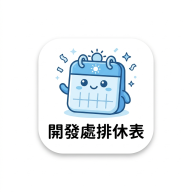
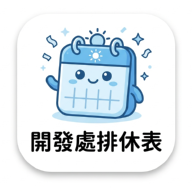
圖示改為滿格：自動偵測內容並放大裁切，去掉原圖過多白邊
- 原圖四周約 18~20% 全白、圖案只占約 63%，加到主畫面顯得有一圈留白
- 產圖腳本改為偵測內容範圍後裁切放大，內容填滿約 86% 方格，
  僅保留小安全邊距避免底部文字被 iOS 圓角切掉
- 重產 icon-180/192/512.png

https://claude.ai/code/session_01FgorpNVTQCG1yQN7ps6MJR

diff --git a/scripts/make-icons.js b/scripts/make-icons.js
@@ -1,6 +1,6 @@
-// 由主人提供的正式 Logo（assets/app-icon-master.png, 1024x1024）產生
-// 加到主畫面用的 icon-180/192/512.png。
-// 環境無 convert/canvas/npm，於是自寫 PNG 解碼 + 面積平均縮放 + 重新編碼。純 Node。
+// 由主人提供的正式 Logo（assets/app-icon-master.png）產生 icon-180/192/512.png。
+// 原圖四周留白過多 → 自動偵測內容範圍、放大裁切，讓圖案填滿方格（保留小安全邊距，
+// 避免底部文字被 iOS 圓角切掉）。環境無 convert/canvas/npm，純 Node 自寫解碼/縮放/編碼。
 const fs = require("fs");
 const zlib = require("zlib");
 const path = require("path");
@@ -10,45 +10,61 @@ function crc32(buf){let c=~0;for(let i=0;i<buf.length;i++){c^=buf[i];for(let k=0
 function chunk(type,data){const len=Buffer.alloc(4);len.writeUInt32BE(data.length,0);const body=Buffer.concat([Buffer.from(type,"ascii"),data]);const crc=Buffer.alloc(4);crc.writeUInt32BE(crc32(body),0);return Buffer.concat([len,body,crc]);}
 function encodePNG(W,H,rgba){const sig=Buffer.from([137,80,78,71,13,10,26,10]);const ihdr=Buffer.alloc(13);ihdr.writeUInt32BE(W,0);ihdr.writeUInt32BE(H,4);ihdr[8]=8;ihdr[9]=6;const stride=W*4;const raw=Buffer.alloc((stride+1)*H);for(let y=0;y<H;y++){raw[y*(stride+1)]=0;rgba.copy(raw,y*(stride+1)+1,y*stride,y*stride+stride);}return Buffer.concat([sig,chunk("IHDR",ihdr),chunk("IDAT",zlib.deflateSync(raw,{level:9})),chunk("IEND",Buffer.alloc(0))]);}
 
-/* ── PNG 解碼（支援 colortype 2=RGB / 6=RGBA, 8-bit, 非交錯） ── */
+/* ── PNG 解碼（colortype 2=RGB / 6=RGBA, 8-bit, 非交錯） ── */
 function decodePNG(buf){
   if(buf.readUInt32BE(0)!==0x89504e47) throw new Error("not png");
-  const W=buf.readUInt32BE(16), H=buf.readUInt32BE(20), bd=buf[24], ct=buf[25], il=buf[28];
-  if(bd!==8||il!==0||(ct!==2&&ct!==6)) throw new Error("unsupported png ct="+ct+" bd="+bd+" il="+il);
-  const ch=ct===6?4:3;
-  // 收集所有 IDAT
-  let p=33, idat=[];
-  while(p<buf.length){ const len=buf.readUInt32BE(p), type=buf.toString("ascii",p+4,p+8); if(type==="IDAT")idat.push(buf.slice(p+8,p+8+len)); if(type==="IEND")break; p+=12+len; }
-  const raw=zlib.inflateSync(Buffer.concat(idat));
-  const stride=W*ch, out=Buffer.alloc(stride*H); let rp=0;
-  const paeth=(a,b,c)=>{const pp=a+b-c,pa=Math.abs(pp-a),pb=Math.abs(pp-b),pc=Math.abs(pp-c);return pa<=pb&&pa<=pc?a:pb<=pc?b:c;};
-  for(let y=0;y<H;y++){ const f=raw[rp++]; const ro=y*stride, po=(y-1)*stride;
-    for(let x=0;x<stride;x++){ const v=raw[rp++]; const a=x>=ch?out[ro+x-ch]:0, b=y>0?out[po+x]:0, c=(x>=ch&&y>0)?out[po+x-ch]:0;
-      let r; switch(f){case 0:r=v;break;case 1:r=v+a;break;case 2:r=v+b;break;case 3:r=v+((a+b)>>1);break;case 4:r=v+paeth(a,b,c);break;default:throw new Error("bad filter "+f);} out[ro+x]=r&0xff; } }
+  const W=buf.readUInt32BE(16),H=buf.readUInt32BE(20),bd=buf[24],ct=buf[25],il=buf[28];
+  if(bd!==8||il!==0||(ct!==2&&ct!==6)) throw new Error("unsupported png");
+  const ch=ct===6?4:3; let p=33,idat=[];
+  while(p<buf.length){const len=buf.readUInt32BE(p),t=buf.toString("ascii",p+4,p+8);if(t==="IDAT")idat.push(buf.slice(p+8,p+8+len));if(t==="IEND")break;p+=12+len;}
+  const raw=zlib.inflateSync(Buffer.concat(idat));const stride=W*ch,out=Buffer.alloc(stride*H);let rp=0;
+  const paeth=(a,b,c)=>{const q=a+b-c,pa=Math.abs(q-a),pb=Math.abs(q-b),pc=Math.abs(q-c);return pa<=pb&&pa<=pc?a:pb<=pc?b:c;};
+  for(let y=0;y<H;y++){const f=raw[rp++];const ro=y*stride,po=(y-1)*stride;
+    for(let x=0;x<stride;x++){const v=raw[rp++];const a=x>=ch?out[ro+x-ch]:0,b=y>0?out[po+x]:0,c=(x>=ch&&y>0)?out[po+x-ch]:0;
+      let r;switch(f){case 0:r=v;break;case 1:r=v+a;break;case 2:r=v+b;break;case 3:r=v+((a+b)>>1);break;case 4:r=v+paeth(a,b,c);break;}out[ro+x]=r&255;}}
   return {W,H,ch,data:out};
 }
 
-/* ── 面積平均縮放 → RGBA（不透明背景補白） ── */
-function resizeArea(src,T){
+/* ── 偵測內容範圍（與四角背景色差異夠大者） ── */
+function contentBox(src,thr=24){
+  const {W,H,ch,data}=src; const bg=[data[0],data[1],data[2]];
+  let minX=W,minY=H,maxX=0,maxY=0;
+  for(let y=0;y<H;y++)for(let x=0;x<W;x++){const i=(y*W+x)*ch;
+    if(Math.abs(data[i]-bg[0])+Math.abs(data[i+1]-bg[1])+Math.abs(data[i+2]-bg[2])>thr){
+      if(x<minX)minX=x;if(x>maxX)maxX=x;if(y<minY)minY=y;if(y>maxY)maxY=y;}}
+  return {minX,minY,maxX,maxY,bg};
+}
+
+/* ── 從來源指定方形區域，面積平均縮放成 T×T RGBA（合成到白底） ── */
+function resizeRegion(src,sx0,sy0,side,T){
   const {W,H,ch,data}=src, out=Buffer.alloc(T*T*4);
-  for(let ty=0;ty<T;ty++){ const sy0=ty*H/T, sy1=(ty+1)*H/T;
-    for(let tx=0;tx<T;tx++){ const sx0=tx*W/T, sx1=(tx+1)*W/T;
-      let r=0,g=0,b=0,a=0,wsum=0;
-      for(let sy=Math.floor(sy0);sy<Math.ceil(sy1);sy++){ const wy=Math.min(sy1,sy+1)-Math.max(sy0,sy);
-        for(let sx=Math.floor(sx0);sx<Math.ceil(sx1);sx++){ const wx=Math.min(sx1,sx+1)-Math.max(sx0,sx); const w=wy*wx; if(w<=0)continue;
-          const i=(sy*W+sx)*ch; const al=ch===4?data[i+3]:255;
-          r+=data[i]*w; g+=data[i+1]*w; b+=data[i+2]*w; a+=al*w; wsum+=w; } }
-      const o=(ty*T+tx)*4, af=a/wsum/255;
-      // 合成到白底（去掉透明，App 圖示用不透明）
-      out[o]=Math.round(r/wsum*af+255*(1-af));
-      out[o+1]=Math.round(g/wsum*af+255*(1-af));
-      out[o+2]=Math.round(b/wsum*af+255*(1-af));
-      out[o+3]=255;
-    } }
+  const sample=(fx,fy)=>{ // 最近像素（已超取樣，足夠）；超出邊界視為白
+    const x=Math.round(fx),y=Math.round(fy); if(x<0||y<0||x>=W||y>=H)return [255,255,255,255];
+    const i=(y*W+x)*ch; return [data[i],data[i+1],data[i+2],ch===4?data[i+3]:255]; };
+  for(let ty=0;ty<T;ty++)for(let tx=0;tx<T;tx++){
+    // 每個目標像素對應來源一小塊，平均之
+    const u0=sx0+tx*side/T, u1=sx0+(tx+1)*side/T, v0=sy0+ty*side/T, v1=sy0+(ty+1)*side/T;
+    let r=0,g=0,b=0,n=0; const step=Math.max(1,Math.floor((u1-u0)/3));
+    for(let sy=Math.floor(v0);sy<Math.ceil(v1);sy+=step)for(let sx=Math.floor(u0);sx<Math.ceil(u1);sx+=step){
+      const c=sample(sx,sy),af=c[3]/255; r+=c[0]*af+255*(1-af); g+=c[1]*af+255*(1-af); b+=c[2]*af+255*(1-af); n++; }
+    if(n===0){const c=sample((u0+u1)/2,(v0+v1)/2),af=c[3]/255;r=c[0]*af+255*(1-af);g=c[1]*af+255*(1-af);b=c[2]*af+255*(1-af);n=1;}
+    const o=(ty*T+tx)*4; out[o]=Math.round(r/n);out[o+1]=Math.round(g/n);out[o+2]=Math.round(b/n);out[o+3]=255;
+  }
   return out;
 }
 
 const master=decodePNG(fs.readFileSync(path.join(__dirname,"..","assets","app-icon-master.png")));
-console.log("master",master.W+"x"+master.H,"ch",master.ch);
+const box=contentBox(master);
+const cx=(box.minX+box.maxX)/2, cy=(box.minY+box.maxY)/2;
+const contentSide=Math.max(box.maxX-box.minX, box.maxY-box.minY);
+const FILL=0.86; // 內容占方格比例（其餘為安全邊距，避免文字被 iOS 圓角切掉）
+let side=contentSide/FILL;
+let sx0=cx-side/2, sy0=cy-side/2;
+// 夾在影像內（必要時縮小裁切框）
+side=Math.min(side, master.W, master.H);
+sx0=Math.max(0,Math.min(sx0, master.W-side));
+sy0=Math.max(0,Math.min(sy0, master.H-side));
+console.log("content",box,"crop",{sx0:Math.round(sx0),sy0:Math.round(sy0),side:Math.round(side)},"fill",FILL);
+
 const outDir=path.join(__dirname,"..","public");
-for(const T of [180,192,512]){ const rgba=resizeArea(master,T); const file=path.join(outDir,`icon-${T}.png`); fs.writeFileSync(file,encodePNG(T,T,rgba)); console.log("wrote",file); }
+for(const T of [180,192,512]){ const rgba=resizeRegion(master,sx0,sy0,side,T); fs.writeFileSync(path.join(outDir,`icon-${T}.png`),encodePNG(T,T,rgba)); console.log("wrote icon-"+T); }